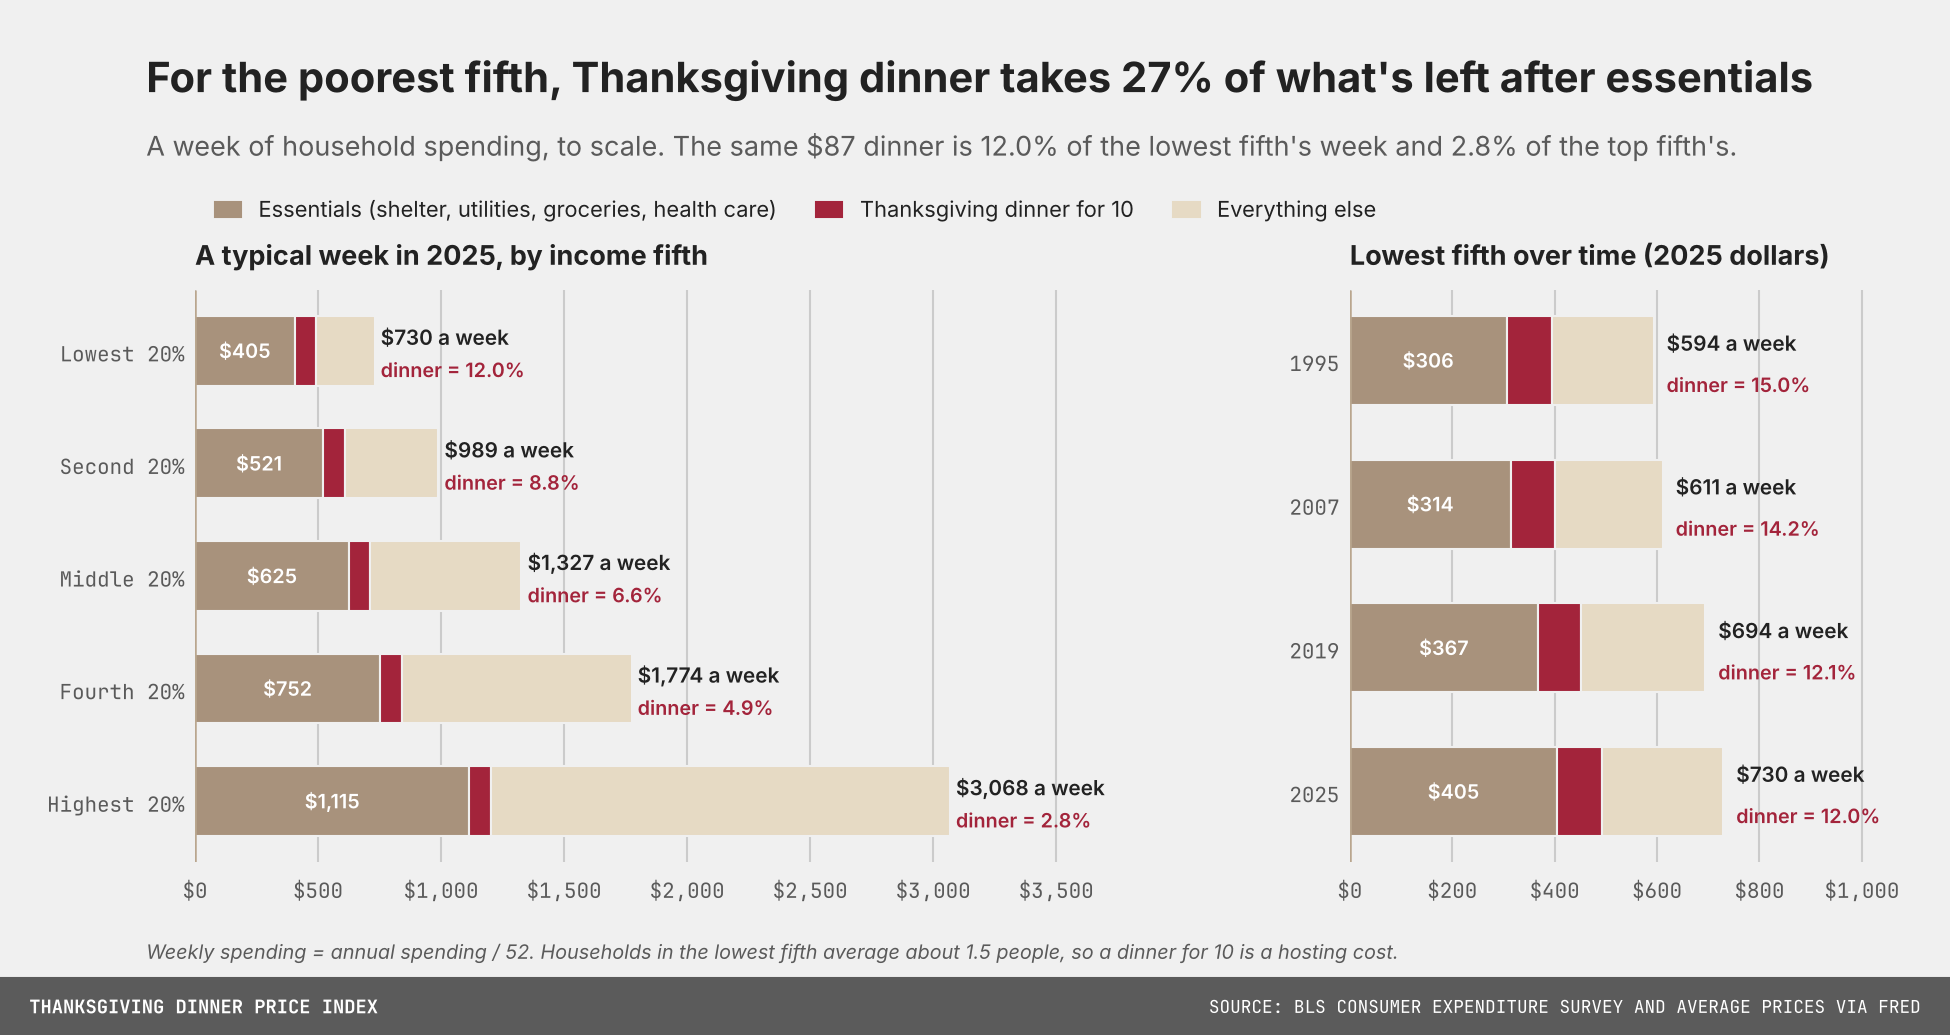
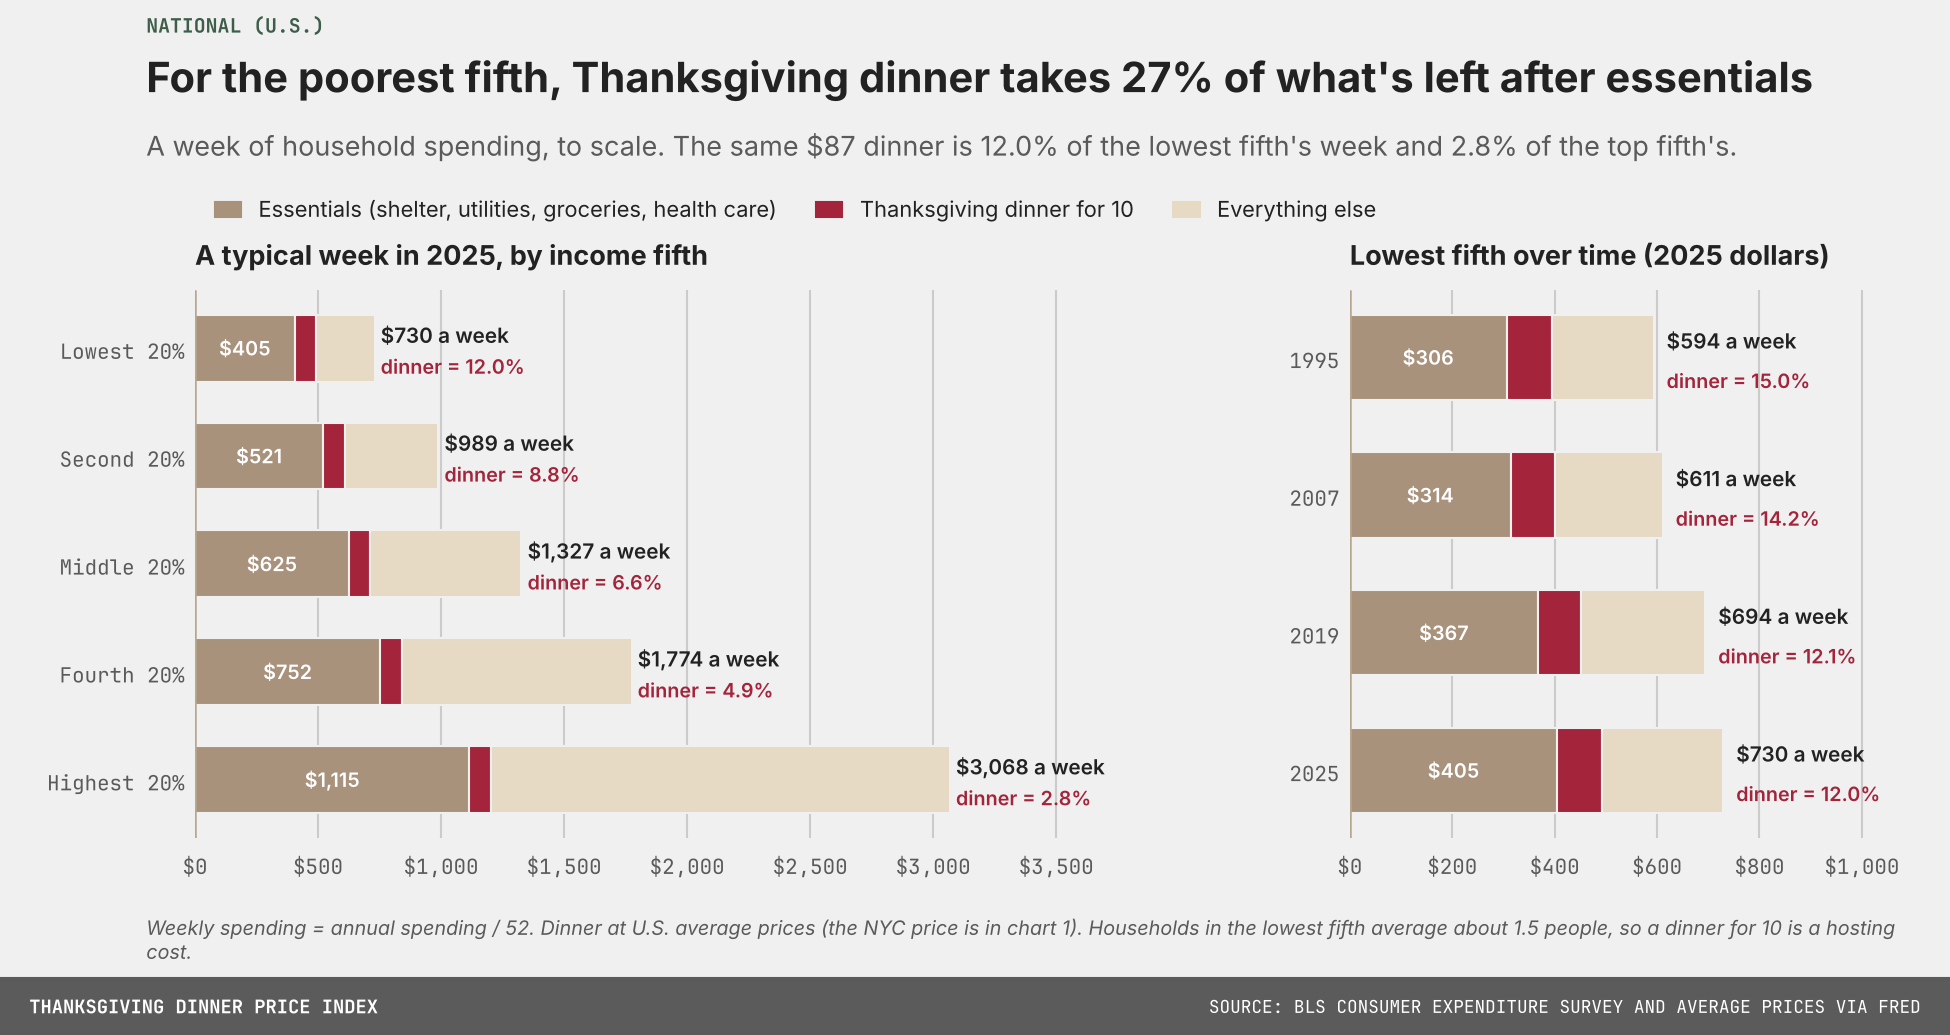
Label every chart NYC or National; clarify dinner prices
Adds a geography label above each headline, notes on charts 2 and 5
that the dinner uses U.S. average prices, and a chart guide in the
README. Charts with NYC prices credit the New York Post survey.

Claude-Session: https://claude.ai/code/session_015UrztArHpAPPRd1ooHHwA1

diff --git a/by_income.py b/by_income.py
@@ -126,11 +126,11 @@ fig.legend(handles=[Patch(color=ESS_C, label="Essentials (shelter, utilities, gr
                     Patch(color=OTH_C, label="Everything else")],
            loc="upper left", bbox_to_anchor=(0.1, 0.83), ncol=3, handlelength=1.2, columnspacing=1.8)
 d = now.loc["Lowest 20%"]
-cs.finish(fig, f"For the poorest fifth, Thanksgiving dinner takes {d.dinner_pct_of_nonessential:.0f}% of what's left after essentials",
+cs.finish_geo("us", fig, f"For the poorest fifth, Thanksgiving dinner takes {d.dinner_pct_of_nonessential:.0f}% of what's left after essentials",
           f"A week of household spending, to scale. The same ${d.dinner_cost:.0f} dinner is {d.dinner_pct_of_week:.1f}% of the lowest fifth's week "
           f"and {now.loc['Highest 20%'].dinner_pct_of_week:.1f}% of the top fifth's.",
           "BLS Consumer Expenditure Survey and average prices via FRED", OUT / "5_week_of_spending.png",
-          note="Weekly spending = annual spending / 52. Households in the lowest fifth average about 1.5 people, so a dinner for 10 is a hosting cost.")
+          note="Weekly spending = annual spending / 52. Dinner at U.S. average prices (the NYC price is in chart 1). Households in the lowest fifth average about 1.5 people, so a dinner for 10 is a hosting cost.")
 
 # ---------- Chart 4: essentials as a share of income, bottom vs top half ----------
 # Bottom 50% = lowest two fifths + half of the middle fifth; top 50% = the rest.
@@ -172,7 +172,7 @@ axes[0].annotate("2004: survey starts\nestimating missing income", (2004, halves
 for ax in axes:
     cs.unit_on_top(ax, suffix="%")
 fig.subplots_adjust(right=0.95, wspace=0.12)
-cs.finish(fig, "The bottom half spends about 62% of its income on essentials; the top half, 25%",
+cs.finish_geo("us", fig, "The bottom half spends about 62% of its income on essentials; the top half, 25%",
           "Housing (rent or mortgage, property costs, utilities), health care and groceries, % of before-tax income, 1995-2025",
           "BLS Consumer Expenditure Survey via FRED", OUT / "4_essentials_by_half.png",
           note="The bottom half reports spending about 120% of its income (under-reported income, benefits, retirees using savings), so its shares are approximate.")

diff --git a/build_index.py b/build_index.py
@@ -292,7 +292,7 @@ cs.label_end(ax, latest, total[latest], f"U.S. average: ${total[latest]:.0f}", c
 cs.label_end(ax, latest, afbf[latest], f"${afbf[latest]:.0f}", cs.DARK, dy=-6, dot=False)
 cs.unit_on_top(ax, prefix="$")
 pct19 = 100 * (total_nyc[latest] / total_nyc[2019] - 1)
-cs.finish(fig, f"Thanksgiving dinner for 10 in NYC costs ${total_nyc[latest]:.0f}, {pct19:.0f}% more than in 2019",
+cs.finish_geo("nyc+us", fig, f"Thanksgiving dinner for 10 in NYC costs ${total_nyc[latest]:.0f}, {pct19:.0f}% more than in 2019",
           "Cost at Thanksgiving prices, as paid. Full menu: turkey, sides, rolls, pumpkin pie, apple cider and baking staples.",
           "New York Post NYC price survey; BLS and BEA via FRED; American Farm Bureau Federation", OUT / "1_dinner_cost.png",
           note=("NYC prices: 11 of 18 items use the New York Post's 2025 and 2026 NYC supermarket prices, scaled to "
@@ -313,8 +313,8 @@ cs.baseline(ax, 100)
 cs.unit_on_top(ax)
 gap = laspeyres[latest] - cpi_all_idx[latest]
 verdict = ("in step with" if abs(gap) < 1.5 else ("a bit less than" if gap < 0 else "a bit more than"))
-cs.finish(fig, f"Since 2019, the dinner's price has risen {verdict} prices overall",
-          "Price indexes, October 2019 = 100. Groceries and all prices are CPI.",
+cs.finish_geo("us", fig, f"Since 2019, the dinner's price has risen {verdict} prices overall",
+          "Price indexes, October 2019 = 100. Dinner at U.S. average prices; groceries and all prices are CPI.",
           "BLS via FRED, American Farm Bureau Federation", OUT / "2_indexes.png")
 
 # 3. YoY contributions
@@ -364,7 +364,7 @@ ax.set_yticks(ticks)
 ax.set_ylim(lo, hi)
 ax.yaxis.set_major_formatter(FuncFormatter(
     lambda v, _: f"+${v:g}" if v == max(ticks) else ("0" if v == 0 else f"{v:+g}")))
-cs.finish(fig, "Turkey drives most swings in the dinner's cost",
+cs.finish_geo("nyc", fig, "Turkey drives most swings in the dinner's cost",
           "Change in the cost of a dinner for 10 in NYC vs. the previous year's Thanksgiving",
           "New York Post NYC price survey; BLS and BEA via FRED", OUT / "3_contributions.png",
           note="2026 changes come from the Post's 2025-to-2026 NYC store prices; earlier years follow BLS price histories.")

diff --git a/deep_dive.py b/deep_dive.py
@@ -211,7 +211,7 @@ cs.unit_on_top(axes[0], suffix="%"); cs.unit_on_top(axes[1], prefix="$", suffix=
 fig.legend(*axes[0].get_legend_handles_labels(), ncol=4, loc="upper left", bbox_to_anchor=(0.065, 0.84),
            handlelength=1.4, columnspacing=1.6, fontsize=9.5)
 fig.subplots_adjust(top=0.7, right=0.97)
-cs.finish(fig, "The squeeze is widest at the bottom",
+cs.finish_geo("us", fig, "The squeeze is widest at the bottom",
           "Household types, 1995-2025. Essentials: shelter, utilities, groceries, health care, child care, vehicle insurance.",
           "BLS Consumer Expenditure Survey via FRED", OUT / "6_who_is_squeezed.png",
           note="Right panel omits married couples with young children (much higher incomes and a one-year spike in 2019).")
@@ -231,7 +231,7 @@ for yr, label in [(2005, "$6.00"), (2014, "$8.00"), (2017, "$11"), (2019, "$15")
                 fontsize=9, color=cs.MUTED, arrowprops=dict(arrowstyle="-", color=cs.MUTED, lw=0.8))
 cs.baseline(ax, 0)
 cs.unit_on_top(ax, suffix=" hrs")
-cs.finish(fig, f"In NYC, Thanksgiving dinner takes {h.iloc[-1]:.0f} hours of minimum-wage work",
+cs.finish_geo("nyc", fig, f"In NYC, Thanksgiving dinner takes {h.iloc[-1]:.0f} hours of minimum-wage work",
           f"Hours at New York City's minimum wage to buy Thanksgiving dinner for 10 at NYC prices, {h.index.min()}-{h.index.max()}",
           "New York Post NYC price survey; BLS and BEA via FRED; NY Labor Law 652", OUT / "7_low_wage.png",
           note=f"Minimum wage for NYC employers with 11 or more workers; labels mark raises (now ${wage.nyc_min_wage.iloc[-1]:.2f}). "

diff --git a/chart_style.py b/chart_style.py
@@ -119,7 +119,20 @@ def mono_ticks(fig):
             lab.set_fontsize(10)
 
 
-def finish(fig, title, subtitle, source, path, note=None):
+GEO_LABELS = {
+    "nyc": ("NEW YORK CITY", RED),
+    "nyc+us": ("NEW YORK CITY  |  U.S. AVERAGE FOR COMPARISON", RED),
+    "us": ("NATIONAL (U.S.)", BLUE),
+}
+
+
+def finish(fig, title, subtitle, source, path, note=None, geo=None):
+    """geo: "nyc", "nyc+us" or "us" adds a label above the headline saying which geography
+    the chart covers."""
+    if geo:
+        label, color = GEO_LABELS[geo]
+        fig.text(0.075, 0.988, label, fontsize=9.5, fontweight="bold", color=color, ha="left",
+                 va="top", fontfamily=MONO)
     ttl = fig.text(0.075, 0.95, title, fontsize=20, fontweight="bold", ha="left", va="top", color=TEXT)
     sub = fig.text(0.075, 0.875, subtitle, fontsize=13, ha="left", va="top", color=MUTED)
     fig.canvas.draw()
@@ -163,3 +176,8 @@ def finish(fig, title, subtitle, source, path, note=None):
     mono_ticks(fig)
     fig.savefig(path)
     plt.close(fig)
+
+
+def finish_geo(geo, fig, *args, **kwargs):
+    """finish() with a geography label ("nyc", "nyc+us" or "us") above the headline."""
+    finish(fig, *args, geo=geo, **kwargs)

diff --git a/turkey_price_ml_modeling.py b/turkey_price_ml_modeling.py
@@ -292,7 +292,7 @@ for ax, origin in zip(axes.flat, ORIGINS):
 for ax in axes.flat:
     cs.unit_on_top(ax, fmt=lambda v: f"{v:.2f}", prefix="$")
 axes[0, 0].legend(loc="upper left", fontsize=9)
-cs.finish(fig, "In backtests, the combined model misses October prices by about 8%",
+cs.finish_geo("us", fig, "In backtests, the combined model misses October prices by about 8%",
           "Retail whole frozen turkey, $/lb. Each panel predicts years it never saw, from predictors only.",
           "BLS via FRED; author's models", OUT / "8_turkey_price_ml_backtest.png")
 
@@ -313,6 +313,6 @@ cs.label_end(ax, afbf_pts.index[-1], afbf_pts.iloc[-1], "Farm Bureau\n(holiday, 
 ax.set_xlim(hist.index[0], rec.index[-1] + pd.DateOffset(months=2))
 fig.subplots_adjust(right=0.82)
 cs.unit_on_top(ax, fmt=lambda v: f"{v:.2f}", prefix="$")
-cs.finish(fig, "Rebuilding the turkey price BLS stopped publishing",
+cs.finish_geo("us", fig, "Rebuilding the turkey price BLS stopped publishing",
           "Retail whole frozen turkey, $/lb, monthly. Farm Bureau points are its holiday price, scaled to BLS's 2019 level.",
           "BLS, American Farm Bureau Federation; author's models", OUT / "9_turkey_price_nowcasting.png")

diff --git a/README.md b/README.md
@@ -57,6 +57,20 @@ charts look the same on any machine.
 | `by_income.py` | Dinner and essentials by income fifth and by half | `by_income.csv`, `essentials_by_half.csv`, `week_of_spending.csv`, charts 4-5 |
 | `deep_dive.py` | 14 household groups, low-wage workers, robustness checks | `deep_dive_*.csv`, charts 6-7 |
 
+## Charts at a glance
+Each chart is labeled NYC or National above its headline.
+
+| Chart | Geography | Dinner prices from |
+|---|---|---|
+| 1 Dinner cost | NYC, with U.S. average for comparison | New York Post NYC survey + BLS |
+| 2 Price indexes | National | BLS U.S. averages |
+| 3 Item contributions | NYC | New York Post NYC survey + BLS |
+| 4 Essentials, bottom vs top half | National | (household spending, no dinner) |
+| 5 A week of spending by income fifth | National | BLS U.S. averages |
+| 6 Household types | National | (household spending, no dinner) |
+| 7 Hours at the minimum wage | NYC | New York Post NYC survey + BLS; NYC minimum wage |
+| 8-9 Turkey price model | National | BLS U.S. turkey price |
+
 ## Nowcasting the turkey price: ML and time-series ensemble (`turkey_price_ml_modeling.py`)
 Turkey is the basket's largest item (about 39% of its cost), and BLS stopped publishing its average retail price
 (whole frozen turkey, per lb) after February 2020. The script estimates it for March 2020
